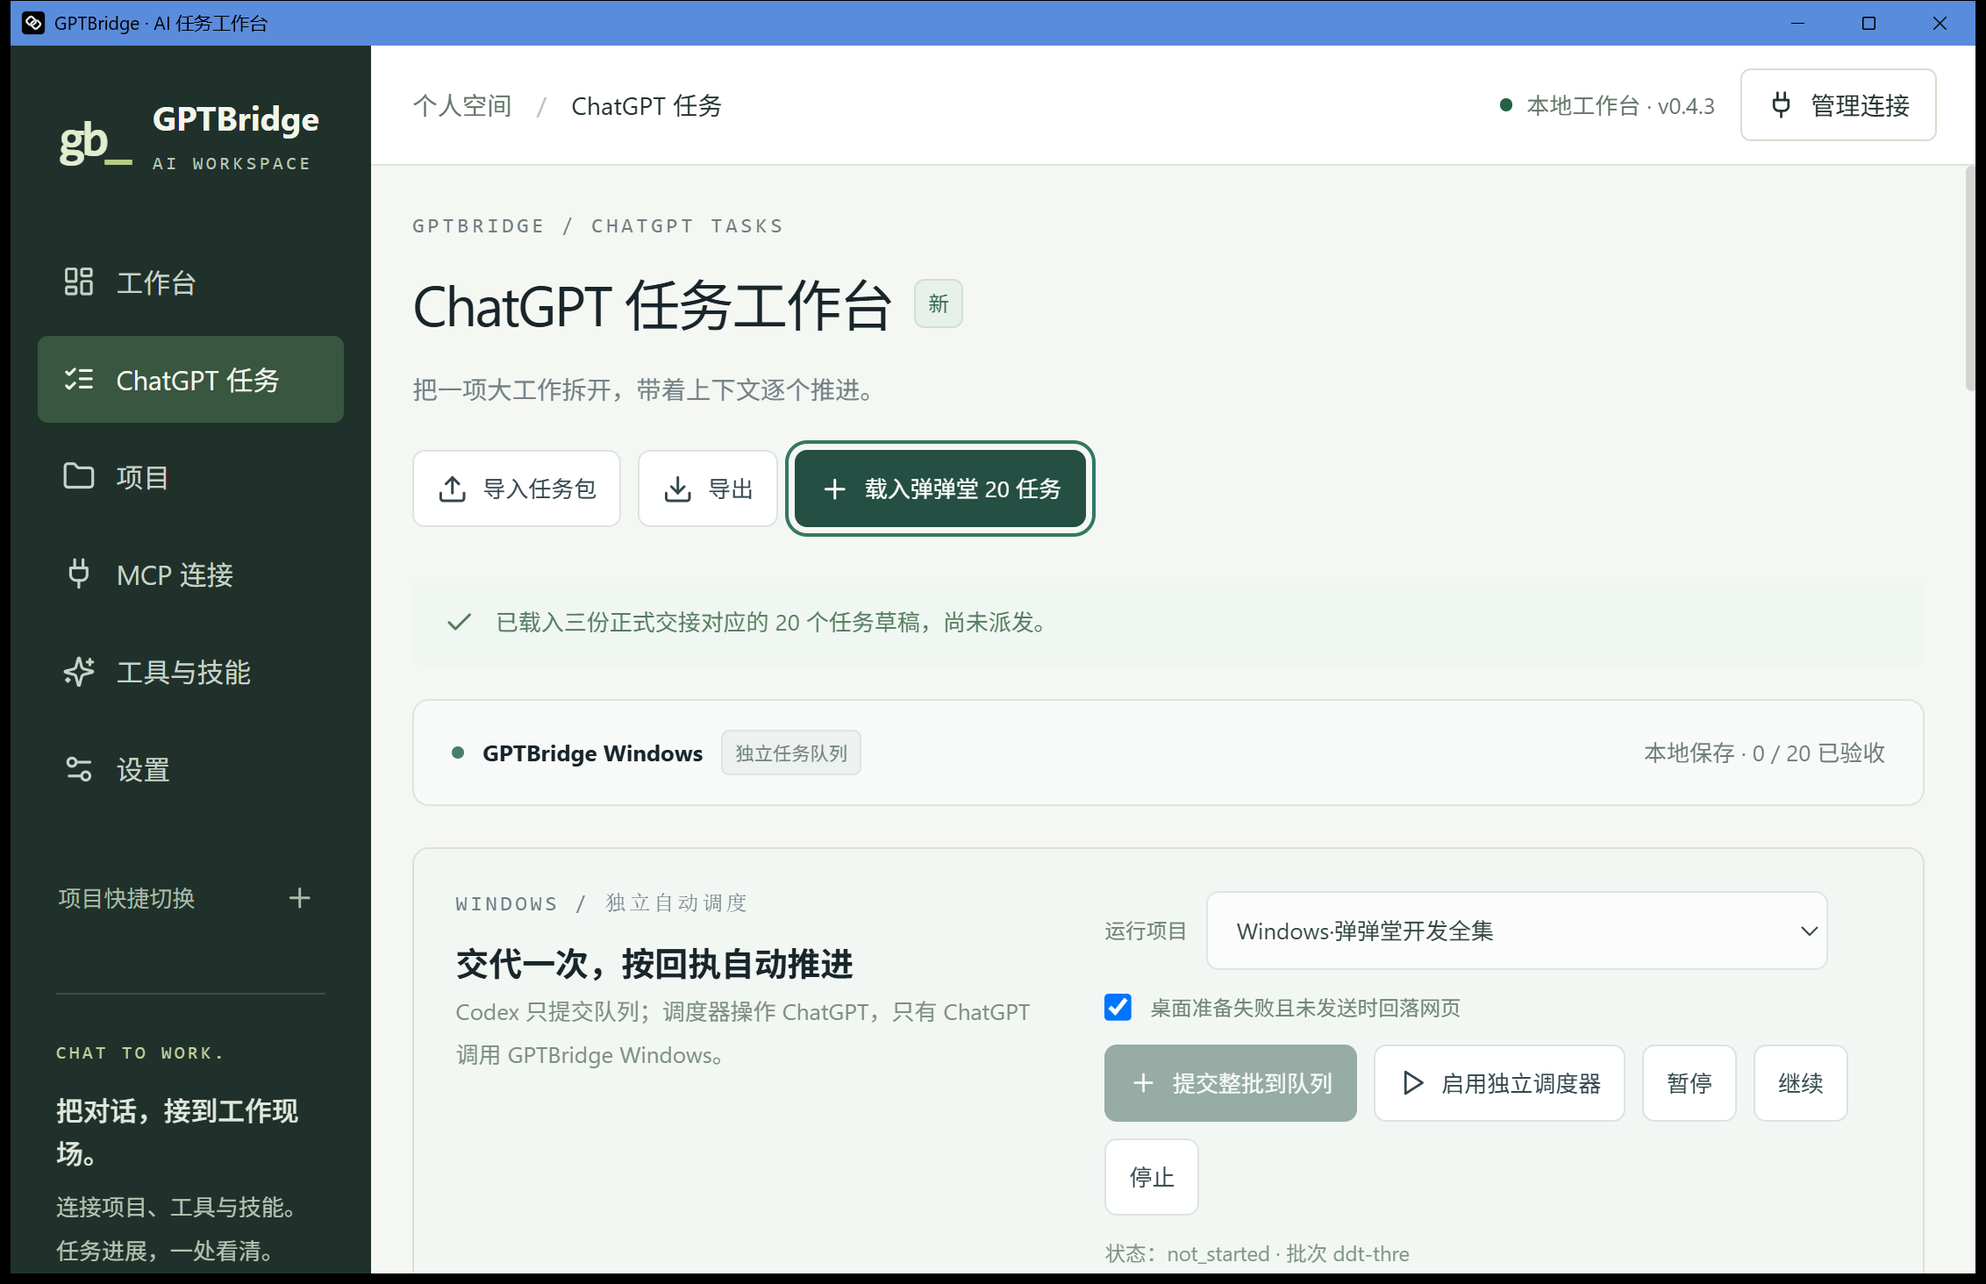
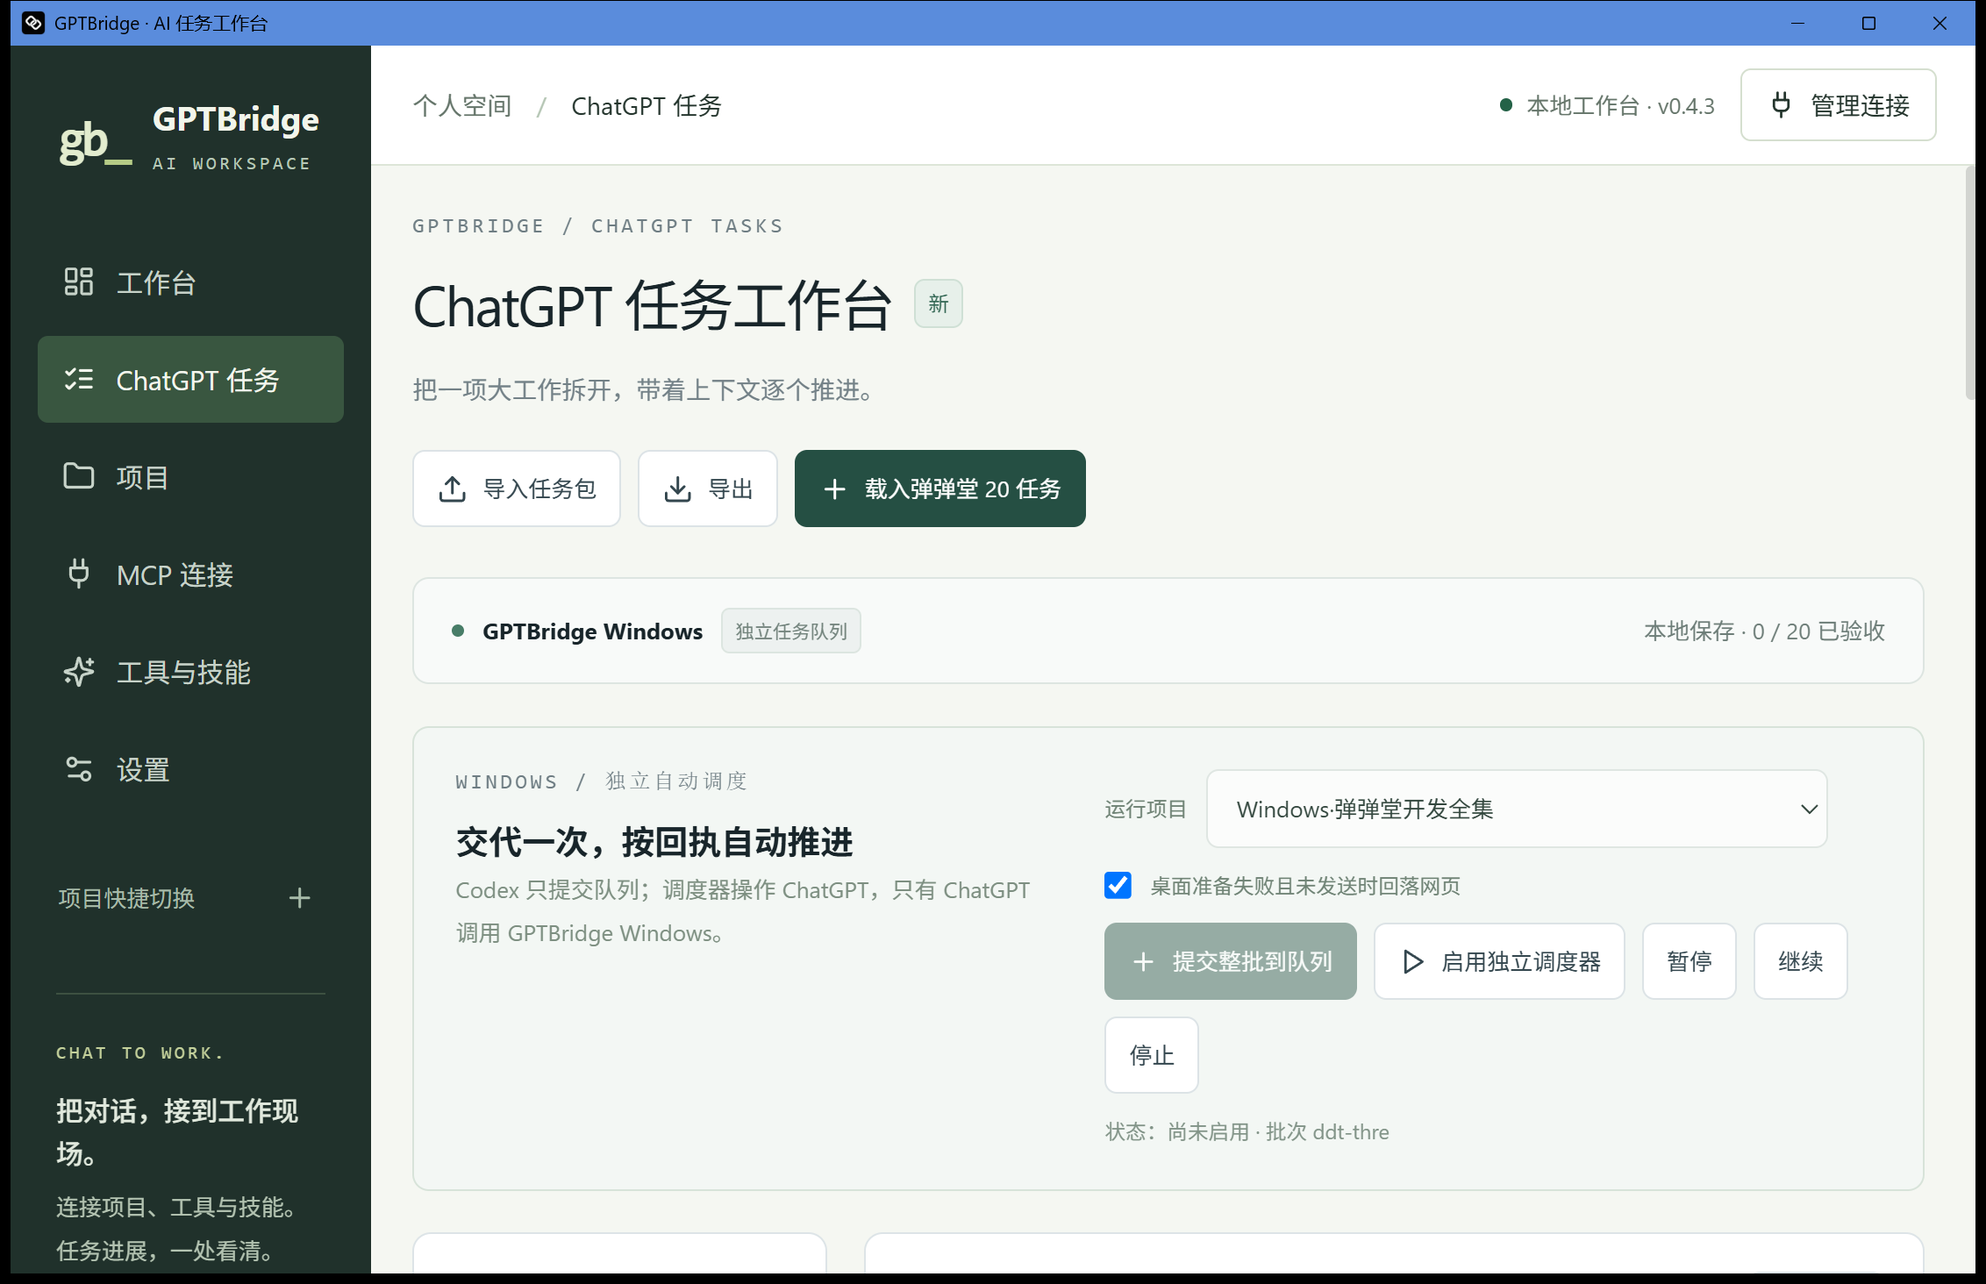
docs(chatgpt-tasks): record WSL startup fix and Codex host boundary

diff --git a/docs/gptbridge/chatgpt-task-workbench/README.html b/docs/gptbridge/chatgpt-task-workbench/README.html
@@ -1,5 +1,8 @@
 <!doctype html><html lang="zh-CN"><meta charset="utf-8"><meta name="viewport" content="width=device-width,initial-scale=1"><title>ChatGPT Windows 任务工作台</title><style>body{max-width:1080px;margin:40px auto;padding:0 24px;font:16px/1.8 system-ui;color:#23342c}img{max-width:100%}pre{overflow:auto;background:#f1f5f2;padding:16px}a{color:#176c52}</style><h1>ChatGPT 任务工作台 · 独立自动调度</h1>
 <p>2026-10-22。GPTBridge 新增 <code>/chatgpt-tasks</code> 独立页面。三条正式交接已整理成 20 个可执行任务与依赖。Codex 只提交文件队列，由用户独立启用的 Windows 调度器控制 ChatGPT，只有 ChatGPT 调用 GPTBridge Windows；Mac 不调用、不修改。</p>
+<h2>本机启动问题与入口澄清</h2>
+<p>用户点击启用后，旧候选因 <code>Ubuntu-24.04</code> 中的点号被错误拒绝，原生界面显示 WSL 项目错误，未留下调度器心跳或任务状态。新候选已修复并安装，原队列保留，Codex 没有代为重新启用。</p>
+<p>本机可见的 <code>ChatGPT.exe</code> 属于 <code>OpenAI.Codex</code> 安装目录，不能只按进程名当成独立客户端。适配器现在先排除 Codex 宿主，再检查模型/思考强度/Windows 插件和输入框。Codex 左上角的 ChatGPT 模式不解除本机插件禁令；使用独立 ChatGPT 客户端，或在 Edge/Chrome 中打开 chatgpt.com。只有用户独立启用后才开始发送，缺失选项会阻塞。</p>
 <h2>预期使用方式</h2>
 <p>一次在 Windows GPTBridge 中选定项目、桌面客户端/网页、模型与思考强度，启用独立调度器。以后在 Codex 中交代工作，由 Codex 生成任务包和完整提示词，提交本地队列；调度器自动建新聊天、核对选项和 Windows 插件、填入并发送，等待本次结果回执后推进依赖任务。Codex 只读取本地状态和产物，不运行发送器。</p>
 <p>每个任务的结果 JSON 带 batchId、taskId、本次随机 nonce、实际产物 SHA、验证命令、exitCode 和日志 SHA。调度器独立读取文件与 SHA；失败/阻塞/未知不升级成完成，不执行回执中的命令。此核对证明回执及其产物身份，不独立保证每项业务验收内容真实完整；未验运行、游戏、奖励与生产层级必须继续保留。</p>
@@ -7,9 +10,9 @@
 <h2>当前实际交付状态</h2>
 <ul>
 <li>新页面、20 任务包、完整提示词、文件提交 CLI、独立队列引擎、Windows 桌面与 Chrome/Edge 网页的 UIAutomation 候选已写入源码。</li>
-<li>Node 相关 18 项测试、Python 调度 12 项离线测试通过；Svelte 检查与前端生产构建通过；Windows PowerShell 语法检查通过。</li>
+<li>Node 相关 19 项测试、Python 调度 12 项离线测试通过；Svelte 检查与前端生产构建通过；Windows PowerShell 语法检查通过。</li>
 <li>20 个任务已实际提交到 Windows 配置目录下 inbox，batchId 为 <code>ddt-three-lines-20261022-01a16250</code>。独立调度器未启用，实际发送 0。</li>
-<li><strong>Windows 最终候选已构建并安装。</strong> 源码 <code>fbf40195f2dc217df13787e48c58c20f35e253fd</code>，GitHub Windows 工作流 <a href="https://github.com/lixiangwelding/GPTBridge/actions/runs/39752886336">39752886336</a> 成功；Rust 测试目标完成编译（未运行 Rust 测试），NSIS 安装退出 0，新进程正常。安装时原项目配置 SHA 未变；原生启动服务后的 JSON 格式重写已核对逐字段等价，FRP 保留，Windows MCP 本机界面显示正在监听 38766。</li>
+<li><strong>Windows 最终候选已构建并安装。</strong> 源码 <code>167ed873c2a1e2e924b34119ffbdbe9b10d712b9</code>，GitHub Windows 工作流 <a href="https://github.com/lixiangwelding/GPTBridge/actions/runs/39757521093">39757521093</a> 成功；Rust 测试目标完成编译，3 项 WSL 路径测试实际运行通过（非全量 Rust 测试），NSIS 安装退出 0，新进程正常。安装时原项目配置 SHA 未变；原生启动服务后的 JSON 格式重写已核对逐字段等价，FRP 保留，Windows MCP 本机界面显示正在监听 38766。</li>
 <li>原生新页面已打开、载入 20 草稿并自动识别同一批队列，状态 <code>not_started</code>；见 <a href="windows-native.png">Windows 实机截图</a> 和 <a href="delivery.json">交付回执</a>。<strong>真实 ChatGPT 控件、选项、发送与整链路执行仍未验证，不能宣称已可无人值守跑完。</strong></li>
 <li>候选脚本按严格的可访问性名称选择模型、思考强度和插件，并校验唯一目标窗口及输入框 ValuePattern。不同客户端名称、Pro 与思考强度组合或可访问性模式缺失都会停止，须在独立 Windows 客户端验收后适配，不能去掉检查或改为坐标盲点。</li>
 <li>当前没有内置另一套 AI 拆解服务；拆任务由 Codex 完成。没有绕过 Codex 禁令的 MCP/HTTP 调度入口。</li>

diff --git a/docs/gptbridge/chatgpt-task-workbench/delivery.html b/docs/gptbridge/chatgpt-task-workbench/delivery.html
@@ -1,9 +1,8 @@
-<!doctype html><html lang="zh-CN"><meta charset="utf-8"><meta name="viewport" content="width=device-width,initial-scale=1"><title>ChatGPT Windows 任务工作台</title><style>body{max-width:1080px;margin:40px auto;padding:0 24px;font:16px/1.8 system-ui;color:#23342c}img{max-width:100%}pre{overflow:auto;background:#f1f5f2;padding:16px}a{color:#176c52}</style><h1>Windows 候选安装交付</h1>
-<p>2026-10-22。最终功能源码 <code>fbf40195f2dc217df13787e48c58c20f35e253fd</code> 已推送，Windows <a href="https://github.com/lixiangwelding/GPTBridge/actions/runs/39752886336">候选构建</a> 成功，NSIS 安装退出 0。未发布 Release，未构建或访问 Mac。</p>
-<p>18 项 Node、12 项 Python 离线测试通过；Svelte 检查、前端构建、PowerShell 语法、Rust 测试目标编译及 NSIS 构建通过。Rust 测试目标仅编译，没有执行。</p>
-<p>Windows 新客户端已启动，原生“ChatGPT 任务”页面载入 20 个草稿，选中 Windows 弹弹堂开发全集，并自动识别已提交的同一批队列。状态 not_started，调度器没有启用，发送 0。安装完成时项目配置文件 SHA 与安装前相同；随后经原生界面启动 MCP，应用重写了 JSON 格式，逐字段比较配置仍完全相同，已有 FRP 进程保留；Windows MCP 经本机界面恢复监听 127.0.0.1:38766，没有协议或工具探测。</p>
-<p><img src="windows-native.png" alt="Windows 原生页面" /></p>
-<p>安装包 SHA256：<code>722208e2cb3f842d3137d8286a264a96a1c1766253ae5ec1c319823735e1516c</code>。安装后 EXE SHA256：<code>b42f675068af90bfffa8e8a364a66acc1be1a319fa1c40c0c0ade8057e8f19d7</code>。完整身份见 delivery.json；旧 EXE 与原配置备份保留在本机私有回滚目录。</p>
-<p>Codex 本机插件禁用、两个桥接 app 的新进程 callable=false，PreToolUse 拦截已启用并受信任；未重启现有聊天。只允许文件队列提交和状态回读，不允许 Codex 启用调度器或执行发送器。67 个其他聊天改动文件哈希未变。</p>
-<p>用户下一步：在 Windows GPTBridge 的“ChatGPT 任务”页面选择模型/思考强度和客户端，独立点击“启用独立调度器”。桌面准备阶段明确未发送时才可回落网页；发送未知不重发。真实 ChatGPT 控件身份、Pro/思考强度组合、消息发送、用户启用后的调度整链路以及 20 项业务完成均尚未验证。缺失控件或选项时应保留阻塞，不能视为完成。</p>
+<!doctype html><html lang="zh-CN"><meta charset="utf-8"><meta name="viewport" content="width=device-width,initial-scale=1"><title>ChatGPT Windows 任务工作台</title><style>body{max-width:1080px;margin:40px auto;padding:0 24px;font:16px/1.8 system-ui;color:#23342c}img{max-width:100%}pre{overflow:auto;background:#f1f5f2;padding:16px}a{color:#176c52}</style><h1>Windows 调度启动修复交付</h1>
+<p>2026-10-22。用户点击启用后，旧候选因 <code>Ubuntu-24.04</code> 包含点号而被路径校验拒绝，实际没有启动调度器。已修复、推送并安装新 Windows 候选；原来的 20 任务队列保持不变。</p>
+<p>最终功能源码 <code>167ed873c2a1e2e924b34119ffbdbe9b10d712b9</code>，Windows <a href="https://github.com/lixiangwelding/GPTBridge/actions/runs/39757521093">构建 39757521093</a> 全部通过：19 项 Node、12 项 Python、3 项 Rust 路径测试实际通过，非全量 Rust 测试。Svelte、前端构建、PowerShell 语法、Rust 测试目标编译与 NSIS 构建通过。安装退出 0，新进程正常，安装时配置 SHA 不变，Windows MCP 本机界面恢复监听 38766。</p>
+<p>本机可见 ChatGPT.exe 实际在 OpenAI.Codex 安装目录。新增镜像身份检查，拒绝把 Codex 内置 ChatGPT 当独立客户端；在选择新聊天和填入之前拦截。离线测试及 Windows CI 验证了 Codex 路径拒绝、独立 ChatGPT 路径接受，未执行发送器。</p>
+<p><img src="windows-native.png" alt="最新 Windows 原生窗口" /></p>
+<p>保留 Codex 禁令和队列交接例外。Codex 左上角 ChatGPT 模式不改变规则适用宿主；独立 Windows 调度器控制独立 ChatGPT 或 chatgpt.com 网页。旧启用没有成功，修复后用户需在 GPTBridge 中重新独立启用；Codex 没有代点。当前心跳和执行记录仍为空，20 项业务未开始。Mac 未访问或修改，67 个其他聊天文件哈希未变。完整构建、制品和安装身份见 delivery.json。</p>
+<p>尚未验证：修复后用户实际启用、真实模型和思考强度菜单、真实消息发送和 GPTBridge 调用、业务任务完成。独立客户端缺失时允许未发送前回落网页；未知发送保留原请求，不重发。</p>
 </html>

diff --git a/docs/gptbridge/chatgpt-task-workbench/README.md b/docs/gptbridge/chatgpt-task-workbench/README.md
@@ -2,6 +2,12 @@
 
 2026-10-22。GPTBridge 新增 `/chatgpt-tasks` 独立页面。三条正式交接已整理成 20 个可执行任务与依赖。Codex 只提交文件队列，由用户独立启用的 Windows 调度器控制 ChatGPT，只有 ChatGPT 调用 GPTBridge Windows；Mac 不调用、不修改。
 
+## 本机启动问题与入口澄清
+
+用户点击启用后，旧候选因 `Ubuntu-24.04` 中的点号被错误拒绝，原生界面显示 WSL 项目错误，未留下调度器心跳或任务状态。新候选已修复并安装，原队列保留，Codex 没有代为重新启用。
+
+本机可见的 `ChatGPT.exe` 属于 `OpenAI.Codex` 安装目录，不能只按进程名当成独立客户端。适配器现在先排除 Codex 宿主，再检查模型/思考强度/Windows 插件和输入框。Codex 左上角的 ChatGPT 模式不解除本机插件禁令；使用独立 ChatGPT 客户端，或在 Edge/Chrome 中打开 chatgpt.com。只有用户独立启用后才开始发送，缺失选项会阻塞。
+
 ## 预期使用方式
 
 一次在 Windows GPTBridge 中选定项目、桌面客户端/网页、模型与思考强度，启用独立调度器。以后在 Codex 中交代工作，由 Codex 生成任务包和完整提示词，提交本地队列；调度器自动建新聊天、核对选项和 Windows 插件、填入并发送，等待本次结果回执后推进依赖任务。Codex 只读取本地状态和产物，不运行发送器。
@@ -13,9 +19,9 @@
 ## 当前实际交付状态
 
 - 新页面、20 任务包、完整提示词、文件提交 CLI、独立队列引擎、Windows 桌面与 Chrome/Edge 网页的 UIAutomation 候选已写入源码。
-- Node 相关 18 项测试、Python 调度 12 项离线测试通过；Svelte 检查与前端生产构建通过；Windows PowerShell 语法检查通过。
+- Node 相关 19 项测试、Python 调度 12 项离线测试通过；Svelte 检查与前端生产构建通过；Windows PowerShell 语法检查通过。
 - 20 个任务已实际提交到 Windows 配置目录下 inbox，batchId 为 `ddt-three-lines-20261022-01a16250`。独立调度器未启用，实际发送 0。
-- **Windows 最终候选已构建并安装。** 源码 `fbf40195f2dc217df13787e48c58c20f35e253fd`，GitHub Windows 工作流 [39752886336](https://github.com/lixiangwelding/GPTBridge/actions/runs/39752886336) 成功；Rust 测试目标完成编译（未运行 Rust 测试），NSIS 安装退出 0，新进程正常。安装时原项目配置 SHA 未变；原生启动服务后的 JSON 格式重写已核对逐字段等价，FRP 保留，Windows MCP 本机界面显示正在监听 38766。
+- **Windows 最终候选已构建并安装。** 源码 `167ed873c2a1e2e924b34119ffbdbe9b10d712b9`，GitHub Windows 工作流 [39757521093](https://github.com/lixiangwelding/GPTBridge/actions/runs/39757521093) 成功；Rust 测试目标完成编译，3 项 WSL 路径测试实际运行通过（非全量 Rust 测试），NSIS 安装退出 0，新进程正常。安装时原项目配置 SHA 未变；原生启动服务后的 JSON 格式重写已核对逐字段等价，FRP 保留，Windows MCP 本机界面显示正在监听 38766。
 - 原生新页面已打开、载入 20 草稿并自动识别同一批队列，状态 `not_started`；见 [Windows 实机截图](windows-native.png) 和 [交付回执](delivery.json)。**真实 ChatGPT 控件、选项、发送与整链路执行仍未验证，不能宣称已可无人值守跑完。**
 - 候选脚本按严格的可访问性名称选择模型、思考强度和插件，并校验唯一目标窗口及输入框 ValuePattern。不同客户端名称、Pro 与思考强度组合或可访问性模式缺失都会停止，须在独立 Windows 客户端验收后适配，不能去掉检查或改为坐标盲点。
 - 当前没有内置另一套 AI 拆解服务；拆任务由 Codex 完成。没有绕过 Codex 禁令的 MCP/HTTP 调度入口。

diff --git a/docs/gptbridge/chatgpt-task-workbench/delivery.md b/docs/gptbridge/chatgpt-task-workbench/delivery.md
@@ -1,15 +1,13 @@
-# Windows 候选安装交付
+# Windows 调度启动修复交付
 
-2026-10-22。最终功能源码 `fbf40195f2dc217df13787e48c58c20f35e253fd` 已推送，Windows [候选构建](https://github.com/lixiangwelding/GPTBridge/actions/runs/39752886336) 成功，NSIS 安装退出 0。未发布 Release，未构建或访问 Mac。
+2026-10-22。用户点击启用后，旧候选因 `Ubuntu-24.04` 包含点号而被路径校验拒绝，实际没有启动调度器。已修复、推送并安装新 Windows 候选；原来的 20 任务队列保持不变。
 
-18 项 Node、12 项 Python 离线测试通过；Svelte 检查、前端构建、PowerShell 语法、Rust 测试目标编译及 NSIS 构建通过。Rust 测试目标仅编译，没有执行。
+最终功能源码 `167ed873c2a1e2e924b34119ffbdbe9b10d712b9`，Windows [构建 39757521093](https://github.com/lixiangwelding/GPTBridge/actions/runs/39757521093) 全部通过：19 项 Node、12 项 Python、3 项 Rust 路径测试实际通过，非全量 Rust 测试。Svelte、前端构建、PowerShell 语法、Rust 测试目标编译与 NSIS 构建通过。安装退出 0，新进程正常，安装时配置 SHA 不变，Windows MCP 本机界面恢复监听 38766。
 
-Windows 新客户端已启动，原生“ChatGPT 任务”页面载入 20 个草稿，选中 Windows 弹弹堂开发全集，并自动识别已提交的同一批队列。状态 not_started，调度器没有启用，发送 0。安装完成时项目配置文件 SHA 与安装前相同；随后经原生界面启动 MCP，应用重写了 JSON 格式，逐字段比较配置仍完全相同，已有 FRP 进程保留；Windows MCP 经本机界面恢复监听 127.0.0.1:38766，没有协议或工具探测。
+本机可见 ChatGPT.exe 实际在 OpenAI.Codex 安装目录。新增镜像身份检查，拒绝把 Codex 内置 ChatGPT 当独立客户端；在选择新聊天和填入之前拦截。离线测试及 Windows CI 验证了 Codex 路径拒绝、独立 ChatGPT 路径接受，未执行发送器。
 
-![Windows 原生页面](windows-native.png)
+![最新 Windows 原生窗口](windows-native.png)
 
[1 lines of base64/hex data omitted]
+保留 Codex 禁令和队列交接例外。Codex 左上角 ChatGPT 模式不改变规则适用宿主；独立 Windows 调度器控制独立 ChatGPT 或 chatgpt.com 网页。旧启用没有成功，修复后用户需在 GPTBridge 中重新独立启用；Codex 没有代点。当前心跳和执行记录仍为空，20 项业务未开始。Mac 未访问或修改，67 个其他聊天文件哈希未变。完整构建、制品和安装身份见 delivery.json。
 
-Codex 本机插件禁用、两个桥接 app 的新进程 callable=false，PreToolUse 拦截已启用并受信任；未重启现有聊天。只允许文件队列提交和状态回读，不允许 Codex 启用调度器或执行发送器。67 个其他聊天改动文件哈希未变。
-
-用户下一步：在 Windows GPTBridge 的“ChatGPT 任务”页面选择模型/思考强度和客户端，独立点击“启用独立调度器”。桌面准备阶段明确未发送时才可回落网页；发送未知不重发。真实 ChatGPT 控件身份、Pro/思考强度组合、消息发送、用户启用后的调度整链路以及 20 项业务完成均尚未验证。缺失控件或选项时应保留阻塞，不能视为完成。
+尚未验证：修复后用户实际启用、真实模型和思考强度菜单、真实消息发送和 GPTBridge 调用、业务任务完成。独立客户端缺失时允许未发送前回落网页；未知发送保留原请求，不重发。
